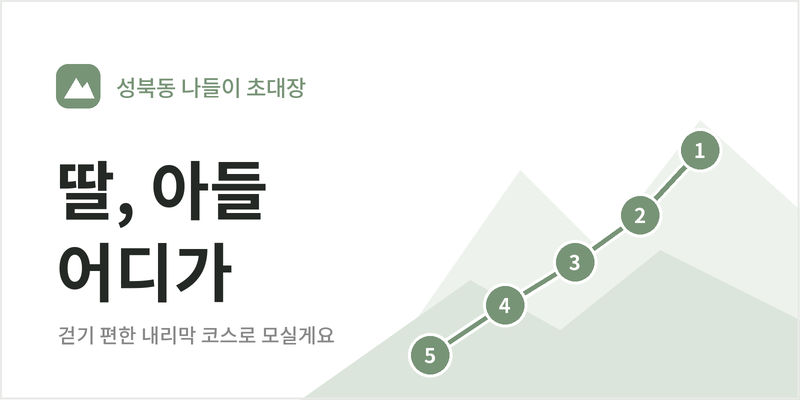
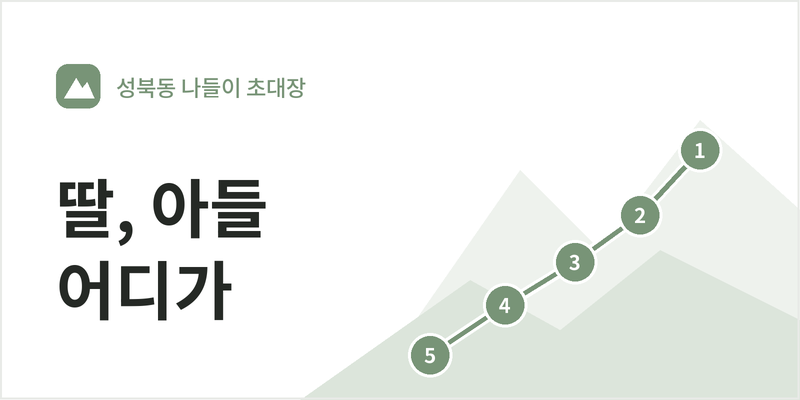
카톡 카드 이미지에서 '내리막 코스로 모실게요' 문구 제거

Changed region(s): [[0.0625, 0.39, 0.4375, 0.87]]

diff --git a/scripts/make_card.py b/scripts/make_card.py
@@ -33,9 +33,8 @@ d.rounded_rectangle(s(56, 64, 100, 108), radius=12 * S, fill=PRIMARY)
 d.polygon(s(64, 98, 76, 78, 82, 88, 87, 82, 94, 98), fill=WHITE)
 d.text((116 * S, 86 * S), "성북동 나들이 초대장", font=ImageFont.truetype(FONT_M, 22 * S), fill=PRIMARY, anchor="lm")
 tf = ImageFont.truetype(FONT_B, 64 * S)
-d.text((56 * S, 140 * S), "딸, 아들", font=tf, fill=TEXT)
-d.text((56 * S, 222 * S), "어디가", font=tf, fill=TEXT)
-d.text((58 * S, 334 * S), "걷기 편한 내리막 코스로 모실게요", font=ImageFont.truetype(FONT_M, 20 * S), fill=TEXT2, anchor="lm")
+d.text((56 * S, 158 * S), "딸, 아들", font=tf, fill=TEXT)
+d.text((56 * S, 240 * S), "어디가", font=tf, fill=TEXT)
 
 d.rectangle(s(0, 0, W - 1, H - 1), outline=BORDER, width=2 * S)
 img = img.resize((W, H), Image.LANCZOS)
